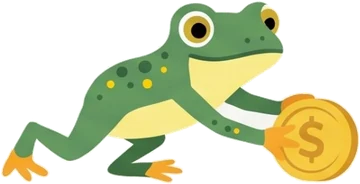
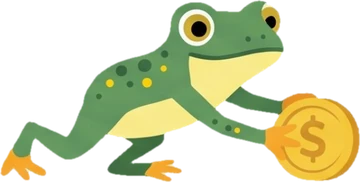
Guía con varias deudas, Apple Pay + Back Tap y ranitas limpias
- Deudas en la guía: "Guardar y agregar otra" para sumar varias tarjetas y préstamos; el nombre es libre (Ej. Mi tarjeta principal) y no se borra al cambiar de tipo
- La ranita del paso de ingreso ya no cambia al elegir Sueldo fijo, Flexible o Remesas
- Último paso: elegir Apple Pay y/o Back Tap
- Back Tap: pasos para crear el atajo «Anotar en Valiu» con el mismo enlace personal; fila propia en Perfil; los gastos llegan como "Efectivo" con su propio aviso
- Las 28 ranitas sin partes blancas sueltas y con bordes suaves

Claude-Session: https://claude.ai/code/session_01BpLHCb6zhH5oPJ3FipdQjw

diff --git a/index.html b/index.html
@@ -604,6 +604,12 @@
         .ob-frog .frog-hi, .aw-frog .frog { animation: frogBob 3.2s ease-in-out infinite; transform-origin: 50% 100%; }
         @keyframes frogBob { 0%, 100% { transform: translateY(0) scale(1, 1); } 45% { transform: translateY(-5px) scale(.98, 1.02); } 55% { transform: translateY(-5px) scale(.98, 1.02); } }
         .ob-h.center, .ob-s.center { text-align: center; }
+        .ob-cap { width: 100%; display: flex; align-items: center; gap: 12px; text-align: left; padding: 12px 14px; border-radius: 18px; background: var(--surface); border: 2px solid var(--border); color: var(--text); }
+        .ob-cap b { display: block; font-size: 15px; } .ob-cap .grow span { display: block; font-size: 13px; color: var(--muted); line-height: 1.35; margin-top: 2px; }
+        .ob-cap[aria-pressed="true"] { border-color: var(--accent); background: var(--accent-soft); }
+        .ob-tick { width: 26px; height: 26px; border-radius: 8px; border: 2px solid var(--border); display: grid; place-items: center; flex: none; color: transparent; }
+        .ob-tick svg { width: 16px; height: 16px; stroke-width: 3; }
+        .ob-cap[aria-pressed="true"] .ob-tick { background: var(--accent); border-color: var(--accent); color: #fff; }
         .ob-plan { list-style: none; padding: 0; margin: 22px 0 0; display: grid; gap: 10px; counter-reset: plan; }
         .ob-plan li { display: flex; align-items: center; gap: 12px; padding: 12px 14px; border-radius: 16px; background: var(--surface); border: 1px solid var(--border); font-weight: 600; }
         .ob-debt { display: grid; gap: 12px; }
@@ -1103,7 +1109,7 @@
 
             <section id="wallet-group" class="set-group hidden">
                 <p class="set-head"><i data-lucide="smartphone"></i><span data-i18n="wTitle"></span></p>
-                <div class="set-card rows"><button class="set-row" onclick="closeModal('config-modal'); openWalletSetup()"><span class="set-ic"><i data-lucide="credit-card"></i></span><span class="grow" data-i18n="wRow"></span><i data-lucide="chevron-right" class="faint"></i></button></div>
+                <div class="set-card rows"><button class="set-row" onclick="closeModal('config-modal'); openWalletSetup()"><span class="set-ic"><i data-lucide="credit-card"></i></span><span class="grow" data-i18n="wRow"></span><i data-lucide="chevron-right" class="faint"></i></button><button class="set-row" onclick="closeModal('config-modal'); openWalletSetup('tap')"><span class="set-ic"><i data-lucide="smartphone"></i></span><span class="grow"><span data-i18n="wTapRow"></span><span class="tiny muted" style="display:block" data-i18n="wTapRowS"></span></span><i data-lucide="chevron-right" class="faint"></i></button></div>
             </section>
 
             <section id="notify-group" class="set-group hidden">
@@ -5294,29 +5300,33 @@
         obHiT: '¡Hola! Armemos tu presupuesto', obHiS: 'Son tres pasos cortos. Al final te digo cuánto puedes gastar cada día sin descuidar tus pagos.',
         obPlanIncome: 'Tu ingreso', obPlanBills: 'Tus pagos fijos', obPlanDebt: 'Tu primera deuda (si tienes)',
         obStepOf: 'Paso {n} de {t}',
-        obDebtT: '¿Tienes alguna deuda?', obDebtS: 'Tarjeta de crédito, préstamo, lo que sea. Agrega la que más te preocupa y te ayudo a pagarla con menos intereses.',
+        obDebtT: '¿Tienes alguna deuda?', obDebtS: 'Agrega todas las que tengas, una por una: varias tarjetas, préstamos, lo que sea. Te ayudo a pagarlas con menos intereses.',
         obDebtCard: 'Tarjeta de crédito', obDebtLoan: 'Préstamo', obDebtOther: 'Otra',
-        obDebtName: 'Nombre', obDebtNamePh: 'Ej. Visa BI', obDebtBal: 'Saldo total que debes', obDebtMin: 'Pago mínimo', obDebtPay: 'Cuota al mes', obDebtDay: 'Día límite de pago',
+        obDebtName: 'Nombre', obDebtNamePh: 'Ej. Mi tarjeta principal', obDebtNamePhLoan: 'Ej. Préstamo del carro', obDebtNamePhOther: 'Ej. Deuda con un familiar', obDebtBal: 'Saldo total que debes', obDebtMin: 'Pago mínimo', obDebtPay: 'Cuota al mes', obDebtDay: 'Día límite de pago',
         obDebtApr: 'Tasa anual (opcional)', obDebtAprHint: 'Viene en tu estado de cuenta. Si no la sabes, déjala vacía.',
-        obDebtAdd: 'Agregar deuda', obDebtAnother: 'Agregar otra', obDebtNone: 'No tengo deudas', obDebtErr: 'Completa nombre, saldo, pago y un día del 1 al 31.',
-        obWalletT: '¿Pagas con Apple Pay?', obWalletS: 'Puedo anotar tus compras solas: pagas con tu iPhone y el gasto aparece en Valiu con el monto y el comercio.',
-        obWalletYes: 'Sí, configurarlo al terminar', obWalletNo: 'Ahora no',
-        obGoWallet: 'Configurar Apple Pay'
+        obDebtAdd: 'Guardar y continuar', obDebtAnother: 'Guardar y agregar otra', obDebtNone: 'No tengo deudas', obDebtErr: 'Completa nombre, saldo, pago y un día del 1 al 31.',
+        obWalletT: 'Anota tus gastos sin escribir', obWalletS: 'Elige cómo. Puedes usar los dos.',
+        obWalletYes: 'Continuar', obWalletNo: 'Ahora no',
+        obApT: 'Con Apple Pay', obApS: 'Pagas con tu iPhone o reloj y el gasto se anota solo.',
+        obTapT: 'Con Back Tap', obTapS: 'Toca dos veces la parte de atrás de tu iPhone, escribe el monto y listo. Ideal para efectivo.',
+        obGoWallet: 'Configurarlo ahora'
     });
     Object.assign(I18N.en, {
         obHiT: 'Hi! Let\'s build your budget', obHiS: 'Three short steps. At the end I\'ll tell you how much you can spend each day without missing a payment.',
         obPlanIncome: 'Your income', obPlanBills: 'Your fixed bills', obPlanDebt: 'Your first debt (if you have one)',
         obStepOf: 'Step {n} of {t}',
-        obDebtT: 'Do you have any debt?', obDebtS: 'A credit card, a loan, anything. Add the one that worries you most and I\'ll help you pay it with less interest.',
+        obDebtT: 'Do you have any debt?', obDebtS: 'Add all of them, one at a time: several cards, loans, anything. I\'ll help you pay them with less interest.',
         obDebtCard: 'Credit card', obDebtLoan: 'Loan', obDebtOther: 'Other',
-        obDebtName: 'Name', obDebtNamePh: 'e.g. Visa BI', obDebtBal: 'Total balance you owe', obDebtMin: 'Minimum payment', obDebtPay: 'Monthly payment', obDebtDay: 'Payment due day',
+        obDebtName: 'Name', obDebtNamePh: 'e.g. My main card', obDebtNamePhLoan: 'e.g. Car loan', obDebtNamePhOther: 'e.g. Money owed to family', obDebtBal: 'Total balance you owe', obDebtMin: 'Minimum payment', obDebtPay: 'Monthly payment', obDebtDay: 'Payment due day',
         obDebtApr: 'Yearly rate (optional)', obDebtAprHint: 'It\'s on your statement. If you don\'t know it, leave it empty.',
-        obDebtAdd: 'Add debt', obDebtAnother: 'Add another', obDebtNone: 'I don\'t have debt', obDebtErr: 'Fill in name, balance, payment and a day from 1 to 31.',
-        obWalletT: 'Do you pay with Apple Pay?', obWalletS: 'I can log your purchases by myself: you pay with your iPhone and the expense shows up in Valiu with the amount and the store.',
-        obWalletYes: 'Yes, set it up when I finish', obWalletNo: 'Not now',
-        obGoWallet: 'Set up Apple Pay'
+        obDebtAdd: 'Save and continue', obDebtAnother: 'Save and add another', obDebtNone: 'I don\'t have debt', obDebtErr: 'Fill in name, balance, payment and a day from 1 to 31.',
+        obWalletT: 'Log expenses without typing', obWalletS: 'Pick how. You can use both.',
+        obWalletYes: 'Continue', obWalletNo: 'Not now',
+        obApT: 'With Apple Pay', obApS: 'Pay with your iPhone or watch and the expense logs itself.',
+        obTapT: 'With Back Tap', obTapS: 'Double-tap the back of your iPhone, type the amount, done. Great for cash.',
+        obGoWallet: 'Set it up now'
     });
-    const OB = { open: false, step: 0, steps: [], currency: '', bills: [], debts: [], debtKind: 'cc', wantWallet: false, err: '' };
+    const OB = { open: false, step: 0, steps: [], currency: '', bills: [], debts: [], debtKind: 'cc', wantWallet: false, cap: { ap: true, tap: true }, err: '' };
     const obKey = () => OB.steps[OB.step];
     function needsOnboarding() {
         return !state.onboarded && !(state.income > 0) && !state.items.length && !state.expenses.length && !(state.goals || []).length;
@@ -5327,7 +5337,7 @@
         if (!needsOnboarding()) { maybeNews(); return; }
         const auth = $('auth'), lock = $('lock');
         if ((auth && auth.classList.contains('open')) || (lock && lock.classList.contains('open'))) { setTimeout(maybeOnboard, 900); return; }
-        OB.open = true; OB.step = 0; OB.err = ''; OB.bills = []; OB.debts = []; OB.wantWallet = false;
+        OB.open = true; OB.step = 0; OB.err = ''; OB.bills = []; OB.debts = []; OB.wantWallet = false; OB.cap = { ap: true, tap: true };
         OB.steps = ['hi', 'income', 'bills', 'debt', ...(walletOffer() ? ['wallet'] : []), 'reveal'];
         OB.currency = state.currencyCode && state.currencyCode !== 'USD' ? state.currencyCode : (state.lang === 'es' ? 'GTQ' : 'USD');
         state.currencyCode = OB.currency;
@@ -5367,7 +5377,11 @@
     }
     function obDelBill(k) { OB.bills.splice(k, 1); obRender(); }
     function obSugg(name) { const n = $('ob-name'); if (n) { n.value = name; $('ob-amount').focus(); } }
-    function obDebtKind(k) { OB.debtKind = k; obRender(); }
+    function obDebtKind(k) {
+        const keep = ['obd-name', 'obd-bal', 'obd-pay', 'obd-day', 'obd-apr'].map(id => [id, ($(id) || {}).value || '']);
+        OB.debtKind = k; obRender();
+        keep.forEach(([id, v]) => { const el = $(id); if (el) el.value = v; });
+    }
     function obAddDebt(rerender = true) {
         const name = $('obd-name').value.trim(), bal = parseFloat($('obd-bal').value), pay = parseFloat($('obd-pay').value), day = parseInt($('obd-day').value, 10);
         const apr = parseFloat($('obd-apr').value);
@@ -5379,7 +5393,8 @@
     }
     function obDelDebt(k) { OB.debts.splice(k, 1); obRender(); }
     function obNoDebt() { OB.debts = []; OB.err = ''; if (OB.steps[OB.step + 1] === 'reveal') obFinish(); else obGo(OB.step + 1); }
-    function obWallet(yes) { OB.wantWallet = yes; obFinish(); }
+    function obWallet(yes) { OB.wantWallet = yes && (OB.cap.ap || OB.cap.tap); obFinish(); }
+    function obCap(k, btn) { OB.cap[k] = !OB.cap[k]; btn.setAttribute('aria-pressed', OB.cap[k]); }
     function obFinish() {
         ieApply(IE.ob);
         state.currencyCode = OB.currency || state.currencyCode;
@@ -5398,7 +5413,7 @@
     }
     function obDone() {
         obClose();
-        if (OB.wantWallet && typeof openWalletSetup === 'function') setTimeout(() => openWalletSetup(), 250);
+        if (OB.wantWallet && typeof openWalletSetup === 'function') setTimeout(() => openWalletSetup(OB.cap.ap ? '' : 'tap'), 250);
     }
     function obRender() {
         const el = $('onboard'); if (!el) return;
@@ -5425,7 +5440,7 @@
                 ${cta(t('obStart'))}`;
         } else if (k === 'income') {
             const opts = ['GTQ', 'USD', 'MXN', 'EUR', 'HNL', 'CRC', 'COP', 'GBP'].map(c => `<option value="${c}" ${c === OB.currency ? 'selected' : ''}>${c}</option>`).join('');
-            body = `<div class="ob-frog sm">${mascot(IE.ob && IE.ob.type === 'remit' ? 'enviando' : 'trabajando', 104)}</div><h2 class="ob-h">${esc(t('obIncomeT'))}</h2>
+            body = `<div class="ob-frog sm">${mascot('trabajando', 104)}</div><h2 class="ob-h">${esc(t('obIncomeT'))}</h2>
                 <p class="ob-s">${esc(t('obIncomeS'))}</p>
                 <div class="row mt-4" style="gap:10px"><label class="label" for="ob-cur" style="margin:0">${esc(t('currencyLabel'))}</label>
                     <select id="ob-cur" class="input" style="width:120px" onchange="OB.currency=this.value; state.currencyCode=this.value; ieRefresh('ob')">${opts}</select></div>
@@ -5456,7 +5471,7 @@
                 ${list ? `<div class="mt-4">${list}</div>` : ''}
                 <div class="ob-debt mt-4">
                     <div class="seg-wide three">${kinds}</div>
-                    <div><label class="label" for="obd-name">${esc(t('obDebtName'))}</label><input id="obd-name" class="input" maxlength="40" placeholder="${esc(OB.debtKind === 'cc' ? t('obDebtNamePh') : '')}"></div>
+                    <div><label class="label" for="obd-name">${esc(t('obDebtName'))}</label><input id="obd-name" class="input" maxlength="40" placeholder="${esc(t(OB.debtKind === 'cc' ? 'obDebtNamePh' : OB.debtKind === 'loan' ? 'obDebtNamePhLoan' : 'obDebtNamePhOther'))}"></div>
                     <div class="form-grid">
                         <div><label class="label" for="obd-bal">${esc(t('obDebtBal'))}</label><input id="obd-bal" class="input" type="number" inputmode="decimal" min="0" step="0.01"></div>
                         <div><label class="label" for="obd-pay">${esc(t(OB.debtKind === 'cc' ? 'obDebtMin' : 'obDebtPay'))}</label><input id="obd-pay" class="input" type="number" inputmode="decimal" min="0" step="0.01"></div>
@@ -5466,7 +5481,7 @@
                         <div><label class="label" for="obd-apr">${esc(t('obDebtApr'))}</label><input id="obd-apr" class="input" type="number" inputmode="decimal" min="0" max="200" step="0.01" placeholder="%"></div>
                     </div>
                     <p class="tiny muted">${esc(t('obDebtAprHint'))}</p>
-                    ${list ? `<button class="btn btn-soft btn-block" onclick="obAddDebt()"><i data-lucide="plus"></i>${esc(t('obDebtAnother'))}</button>` : ''}
+                    <button class="btn btn-soft btn-block" onclick="obAddDebt() && setTimeout(() => { const n = $('obd-name'); if (n) n.focus(); }, 30)"><i data-lucide="plus"></i>${esc(t('obDebtAnother'))}</button>
                 </div>
                 ${err}
                 <div class="stack ob-cta" style="gap:10px">
@@ -5474,9 +5489,11 @@
                     ${list ? '' : `<button class="btn btn-ghost btn-block" onclick="obNoDebt()">${esc(t('obDebtNone'))}</button>`}
                 </div>`;
         } else if (k === 'wallet') {
-            body = `<div class="ob-frog">${mascot('pagando', 180)}</div>
+            const cap = (k, icon, ti, su) => `<button type="button" class="ob-cap" aria-pressed="${OB.cap[k]}" onclick="obCap('${k}', this)"><span class="set-ic"><i data-lucide="${icon}"></i></span><span class="grow"><b>${esc(t(ti))}</b><span>${esc(t(su))}</span></span><span class="ob-tick" aria-hidden="true"><i data-lucide="check"></i></span></button>`;
+            body = `<div class="ob-frog sm">${mascot('pagando', 120)}</div>
                 <h2 class="ob-h center">${esc(t('obWalletT'))}</h2>
                 <p class="ob-s center">${esc(t('obWalletS'))}</p>
+                <div class="stack mt-4" style="gap:10px">${cap('ap', 'wallet-cards', 'obApT', 'obApS')}${cap('tap', 'smartphone', 'obTapT', 'obTapS')}</div>
                 <div class="stack ob-cta" style="gap:10px">
                     <button class="btn btn-primary btn-block" onclick="obWallet(true)">${esc(t('obWalletYes'))}</button>
                     <button class="btn btn-ghost btn-block" onclick="obWallet(false)">${esc(t('obWalletNo'))}</button>
@@ -6219,7 +6236,16 @@
         wRevoke: 'Desactivar y borrar mi enlace', wRevoked: 'Listo: tu enlace ya no funciona.',
         wNote: 'La categoría se adivina por el nombre del comercio; puedes cambiarla o borrar el gasto como cualquier otro.',
         wToast1: '🧾 Gasto de Apple Pay: {x} en {m}', wToastN: '🧾 {n} gastos de Apple Pay agregados', wDefault: 'Apple Pay',
-        wOn: 'Activo', wOff: 'Sin configurar'
+        wOn: 'Activo', wOff: 'Sin configurar',
+        wTapRow: 'Back Tap', wTapRowS: 'Dos toques atrás del iPhone para anotar',
+        wTapT: 'Back Tap: anota con dos toques', wTapS: 'Para lo que pagas en efectivo o con tarjeta física. Usa el mismo enlace del paso 1.',
+        wT1: 'En <b>Atajos</b>, toca <b>+</b> para crear un atajo nuevo y llámalo <b>Anotar en Valiu</b>.',
+        wT2: 'Agrega <b>Solicitar entrada</b>: tipo <b>Número</b>, con la pregunta «¿Cuánto gastaste?».',
+        wT3: 'Agrega otra <b>Solicitar entrada</b>: tipo <b>Texto</b>, con la pregunta «¿En qué?».',
+        wT4: 'Agrega <b>Obtener contenido de URL</b> con tu enlace, método <b>POST</b> y cuerpo <b>JSON</b>: <b>amount</b> = la primera entrada, <b>merchant</b> = la segunda y <b>card</b> = el texto <b>Back Tap</b>.',
+        wT5: 'Ve a <b>Ajustes → Accesibilidad → Tocar → Tocar atrás → Doble toque</b> y elige <b>Anotar en Valiu</b>.',
+        wT6: 'Listo: das dos toquecitos atrás de tu iPhone, escribes el monto y aparece en Valiu.',
+        wTapNote: 'Funciona en iPhone 8 o más reciente.', wToastTap: '👆 Anotado: {x} en {m}', wTapDefault: 'Efectivo'
     });
     Object.assign(I18N.en, {
         wTitle: 'Automatic Apple Pay expenses', wRow: 'Automatic Apple Pay',
@@ -6243,7 +6269,16 @@
         wRevoke: 'Turn off and delete my link', wRevoked: 'Done: your link no longer works.',
         wNote: 'The category is guessed from the store name; you can change it or delete the expense like any other.',
         wToast1: '🧾 Apple Pay expense: {x} at {m}', wToastN: '🧾 {n} Apple Pay expenses added', wDefault: 'Apple Pay',
-        wOn: 'On', wOff: 'Not set up'
+        wOn: 'On', wOff: 'Not set up',
+        wTapRow: 'Back Tap', wTapRowS: 'Double-tap the back of your iPhone to log',
+        wTapT: 'Back Tap: log with two taps', wTapS: 'For what you pay in cash or with a physical card. It uses the same link from step 1.',
+        wT1: 'In <b>Shortcuts</b>, tap <b>+</b> to create a new shortcut and name it <b>Log in Valiu</b>.',
+        wT2: 'Add <b>Ask for Input</b>: type <b>Number</b>, with the prompt “How much did you spend?”.',
+        wT3: 'Add another <b>Ask for Input</b>: type <b>Text</b>, with the prompt “On what?”.',
+        wT4: 'Add <b>Get Contents of URL</b> with your link, method <b>POST</b> and a <b>JSON</b> body: <b>amount</b> = the first input, <b>merchant</b> = the second, and <b>card</b> = the text <b>Back Tap</b>.',
+        wT5: 'Go to <b>Settings → Accessibility → Touch → Back Tap → Double Tap</b> and choose <b>Log in Valiu</b>.',
+        wT6: 'Done: double-tap the back of your iPhone, type the amount and it shows up in Valiu.',
+        wTapNote: 'Works on iPhone 8 or newer.', wToastTap: '👆 Logged: {x} on {m}', wTapDefault: 'Cash'
     });
 
     const W = { token: null, info: null, loaded: false, importing: false };
@@ -6277,13 +6312,14 @@
                 const amount = round2(+r.amount);
                 if (!(amount > 0)) return;
                 const ts = Date.parse(r.created_at) || Date.now();
-                const note = String(r.merchant || t('wDefault')).slice(0, 60);
+                const tap = String(r.card || '').trim().toLowerCase() === 'back tap';
+                const note = String((r.merchant || '').trim() || t(tap ? 'wTapDefault' : 'wDefault')).slice(0, 60);
                 const e = { id, amount, note, ts, period: periodKey(new Date(ts)), cat: guessCat(r.merchant) };
-                state.expenses.push(e); added.push(e);
+                state.expenses.push(e); added.push({ ...e, tap });
             });
             if (added.length) {
                 render();
-                toast(added.length === 1 ? t('wToast1', { x: fmt(added[0].amount), m: added[0].note }) : t('wToastN', { n: added.length }));
+                toast(added.length === 1 ? t(added[0].tap ? 'wToastTap' : 'wToast1', { x: fmt(added[0].amount), m: added[0].note }) : t('wToastN', { n: added.length }));
             }
             // Saved locally (and queued to sync) before clearing the inbox.
             await AUTH.sb.from('wallet_inbox').delete().in('id', data.map(r => r.id));
@@ -6326,15 +6362,15 @@
             if (window.confetti && !reduceMotion()) confetti(true);
         } catch (e) { out.className = 'note danger small mt-2'; out.textContent = t('wTestFail', { msg: e.message || e }); }
     }
-    async function openWalletSetup() {
+    async function openWalletSetup(focus) {
         let el = $('wallet-modal');
         if (!el) {
             el = document.createElement('div'); el.id = 'wallet-modal'; el.className = 'modal';
             el.onclick = e => { if (e.target === el) closeModal('wallet-modal'); };
             document.body.appendChild(el);
         }
-        W.loaded = false; renderWalletSheet(); openModal('wallet-modal');
-        await loadWalletInfo(); renderWalletSheet();
+        W.loaded = false; W.focus = focus === 'tap' ? 'tap' : ''; renderWalletSheet(); openModal('wallet-modal');
+        await loadWalletInfo(); renderWalletSheet(); W.focus = '';
     }
     function renderWalletSheet() {
         const el = $('wallet-modal'); if (!el) return;
@@ -6349,6 +6385,7 @@
         else if (active) step1 = `<p class="small muted">${esc(t('wHave', { d: new Date(info.created_at).toLocaleDateString(LOCALES[state.lang], { day: 'numeric', month: 'long' }) }))}</p>
             <button class="btn btn-ghost btn-block mt-2" onclick="createWalletLink()">${esc(t('wNew'))}</button>`;
         else step1 = `<button class="btn btn-primary btn-block" onclick="createWalletLink()">${esc(t('wCreate'))}</button>`;
+        const tapSteps = ['wT1', 'wT2', 'wT3', 'wT4', 'wT5', 'wT6'].map((k, i) => `<li><span class="w-n">${i + 1}</span><span>${t(k)}</span></li>`).join('');
         const steps = ['wA1', 'wA2', 'wA3', 'wA4', 'wA5', 'wA6', 'wA7'].map((k, i) => `<li><span class="w-n">${i + 1}</span><span>${t(k)}</span></li>`).join('');
         el.innerHTML = `<div class="sheet" role="dialog" aria-modal="true" aria-labelledby="w-title" style="max-width:520px">
             <div class="grab"></div>
@@ -6360,10 +6397,12 @@
             <section class="w-step"><h3>3. ${esc(t('wStep3'))}</h3>
                 <button class="btn btn-ghost btn-block" onclick="testWalletLink()" ${W.token ? '' : 'disabled style="opacity:.5"'}>${esc(t('wTest'))}</button>
                 <p id="w-test-msg" class="hidden"></p></section>
+            <section class="w-step" id="w-tap"><h3>${esc(t('wTapT'))}</h3><p class="tiny muted mb-2">${esc(t('wTapS'))}</p><ol class="w-list">${tapSteps}</ol><p class="tiny faint mt-2">${esc(t('wTapNote'))}</p></section>
             <p class="tiny muted mt-4">${esc(t('wNote'))}</p>
             ${active ? `<button class="btn-link small danger mt-3" onclick="revokeWalletLink()">${esc(t('wRevoke'))}</button>` : ''}
         </div>`;
         if (window.lucide) lucide.createIcons();
+        if (W.focus === 'tap') { const sec = $('w-tap'); if (sec) setTimeout(() => sec.scrollIntoView({ block: 'start', behavior: 'auto' }), 60); }
     }
 
     if ('serviceWorker' in navigator && (location.protocol === 'https:' || location.hostname === 'localhost')) {

diff --git a/sw.js b/sw.js
@@ -1,5 +1,5 @@
 // Valiu service worker: the app opens even without internet.
-const CACHE = 'valiu-d0514445b5';
+const CACHE = 'valiu-c2060f92f4';
 const ASSETS = ['./', './index.html', './config.js', './manifest.webmanifest', './vendor/chart.umd.js', './vendor/supabase.js',
                 './icons/icon-192.png', './icons/icon-512.png', './icons/apple-touch-icon.png', './privacidad.html'];
 self.addEventListener('install', e => { e.waitUntil(caches.open(CACHE).then(c => c.addAll(ASSETS)).then(() => self.skipWaiting())); });
